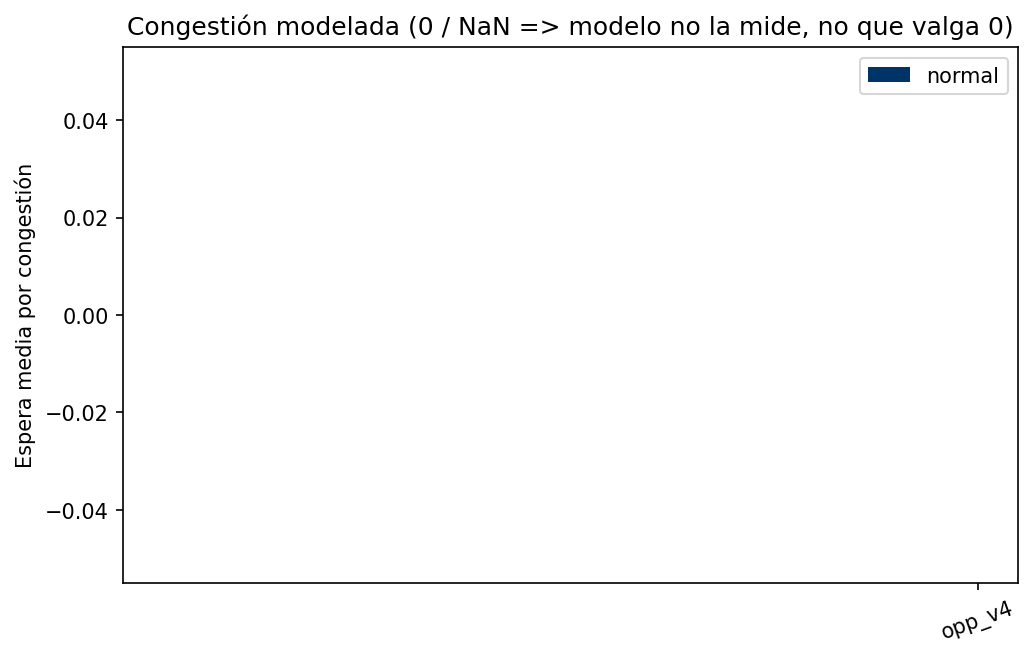
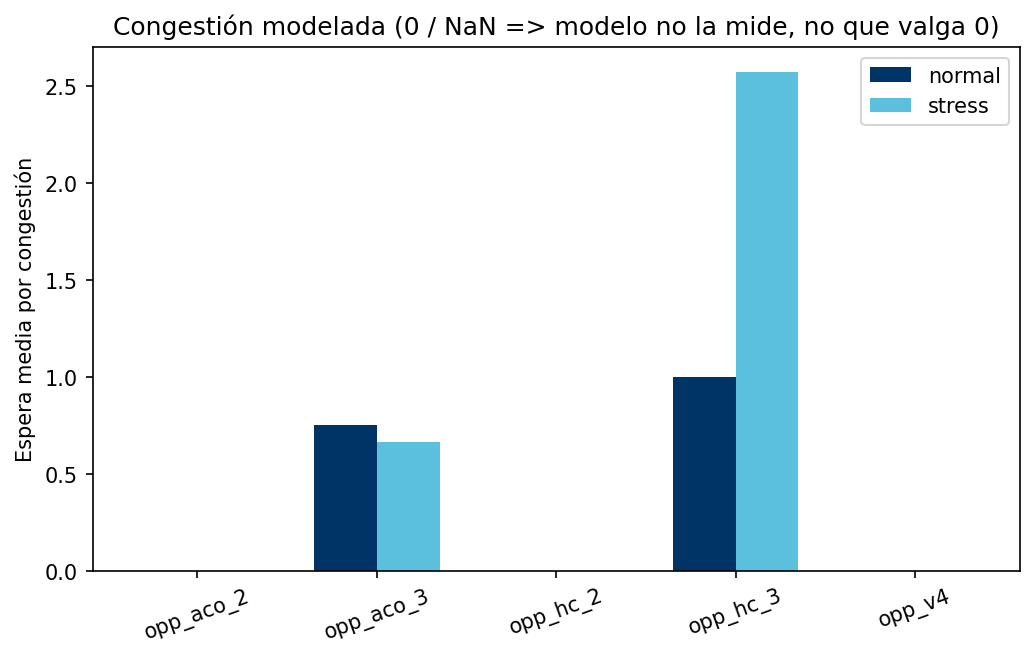
Run analysis

diff --git a/analysis/output/report.md b/analysis/output/report.md
@@ -5,26 +5,37 @@
 | model | scenario | total | ok | timeout | failed | success_rate_pct |
 | --- | --- | --- | --- | --- | --- | --- |
 | opp_aco_2 | normal | 48 | 48 | 0 | 0 | 100.0 |
+| opp_aco_2 | stress | 11 | 8 | 2 | 1 | 72.7 |
 | opp_aco_3 | normal | 12 | 12 | 0 | 0 | 100.0 |
+| opp_aco_3 | stress | 11 | 4 | 5 | 2 | 36.4 |
 | opp_hc_2 | normal | 46 | 46 | 0 | 0 | 100.0 |
+| opp_hc_2 | stress | 34 | 23 | 11 | 0 | 67.6 |
 | opp_hc_3 | normal | 6 | 6 | 0 | 0 | 100.0 |
+| opp_hc_3 | stress | 11 | 8 | 3 | 0 | 72.7 |
 | opp_v4 | normal | 44 | 43 | 1 | 0 | 97.7 |
+| opp_v4 | stress | 8 | 1 | 7 | 0 | 12.5 |
 
 ## 2. Tiempo de ejecución (solo casos OK)
 
 | model | scenario | mean_time | std_time | max_time | n |
 | --- | --- | --- | --- | --- | --- |
 | opp_aco_2 | normal | 0.23610588908195493 | 0.327672399058028 | 1.4354429244995115 | 48 |
+| opp_aco_2 | stress | 508.2595696747303 | 479.06542914003273 | 1444.3947761058807 | 8 |
 | opp_aco_3 | normal | 0.025555570920308385 | 0.04387347950663957 | 0.1223242282867431 | 12 |
+| opp_aco_3 | stress | 669.5413167476654 | 1018.6434971662344 | 2185.4849269390106 | 4 |
 | opp_hc_2 | normal | 0.008851419324460201 | 0.0043273053102638 | 0.0224010944366455 | 46 |
+| opp_hc_2 | stress | 23.28625359742538 | 63.480850213385985 | 296.41067695617676 | 23 |
 | opp_hc_3 | normal | 0.0038505395253499003 | 0.002514931435436244 | 0.0064420700073242 | 6 |
+| opp_hc_3 | stress | 2.6666124165058136 | 3.0417344777546083 | 8.85811710357666 | 8 |
 | opp_v4 | normal | 2.5023141295410865 | 7.092974958272934 | 29.40972781181335 | 43 |
+| opp_v4 | stress | 0.1135659217834472 | nan | 0.1135659217834472 | 1 |
 
 ## 3. Profiling del modelo exacto (opp_v4)
 
 | scenario | mean_total_time | mean_solver_time | n | solver_ratio_pct | overhead_ratio_pct |
 | --- | --- | --- | --- | --- | --- |
 | normal | 2.5023141295410865 | 2.3012240820152816 | 43 | 92.0 | 8.0 |
+| stress | 0.1135659217834472 | 0.0 | 1 | 0.0 | 100.0 |
 
 ## 4. Gap de optimalidad vs. opp_v4
 
@@ -40,17 +51,24 @@
 | model | scenario | mean_congestion_wait | std_congestion_wait | max_congestion_wait | n | congestion_modeled |
 | --- | --- | --- | --- | --- | --- | --- |
 | opp_aco_2 | normal | nan | nan | nan | 0 | False |
+| opp_aco_2 | stress | nan | nan | nan | 0 | False |
 | opp_aco_3 | normal | 0.75 | 1.5 | 3.0 | 4 | True |
+| opp_aco_3 | stress | 0.6666666666666666 | 1.1547005383792517 | 2.0 | 3 | True |
 | opp_hc_2 | normal | nan | nan | nan | 0 | False |
+| opp_hc_2 | stress | nan | nan | nan | 0 | False |
 | opp_hc_3 | normal | 1.0 | 1.7320508075688772 | 3.0 | 3 | True |
+| opp_hc_3 | stress | 2.5714285714285716 | 3.2071349029490928 | 6.0 | 7 | True |
 | opp_v4 | normal | nan | nan | nan | 0 | False |
+| opp_v4 | stress | nan | nan | nan | 0 | False |
 
 ### 5.2 Sobrecosto de tiempo por modelar congestión
 
 | scenario | mean_time_overhead_pct | n_matched | aware_model | baseline_model |
 | --- | --- | --- | --- | --- |
 | normal | -15.574779336779315 | 1 | opp_hc_3 | opp_hc_2 |
+| stress | -26.515760355899374 | 7 | opp_hc_3 | opp_hc_2 |
 | normal | 99.5794968744288 | 1 | opp_aco_3 | opp_aco_2 |
+| stress | 236.52930857530566 | 4 | opp_aco_3 | opp_aco_2 |
 
 ## 6. Sensibilidad paramétrica (correlación de Pearson con total_time)
 
@@ -58,25 +76,33 @@
 
 | model | N | V | B | C_v | W_full | W_ea_ta | n |
 | --- | --- | --- | --- | --- | --- | --- | --- |
-| opp_aco_2 | 0.4544 | 0.4759 | 0.5016 | 0.0808 | -0.015 | -0.496 | 48 |
-| opp_aco_3 | 0.2256 | 0.2256 | 0.9256 | -0.6652 | nan | 0.6652 | 4 |
-| opp_hc_2 | 0.5745 | 0.3289 | 0.2616 | 0.0451 | -0.077 | -0.4117 | 46 |
-| opp_hc_3 | 0.9629 | 0.9629 | nan | 0.9629 | nan | -0.9629 | 3 |
-| opp_v4 | 0.843 | 0.4845 | 0.9182 | -0.0086 | 0.4887 | -0.4204 | 22 |
+| opp_aco_2 | 0.3745 | 0.8742 | 0.3821 | 0.3275 | 0.4978 | -0.318 | 56 |
+| opp_aco_3 | 0.9956 | 0.2727 | 0.6532 | 0.9725 | 0.4728 | -0.1787 | 8 |
+| opp_hc_2 | 0.5506 | 0.7671 | 0.2891 | 0.6387 | 0.2459 | -0.1757 | 69 |
+| opp_hc_3 | 0.3647 | 0.4222 | 0.0525 | 0.769 | 0.4388 | -0.2266 | 11 |
+| opp_v4 | 0.7512 | 0.4409 | 0.9152 | -0.0178 | 0.4444 | -0.387 | 23 |
 
 ### 6.2 Nivel escenario
 
 | model | scenario | N | V | B | C_v | W_full | W_ea_ta | n |
 | --- | --- | --- | --- | --- | --- | --- | --- | --- |
 | opp_aco_2 | normal | 0.4544 | 0.4759 | 0.5016 | 0.0808 | -0.015 | -0.496 | 48 |
+| opp_aco_2 | stress | -0.0209 | 0.7839 | -0.1306 | -0.051 | nan | nan | 8 |
 | opp_aco_3 | normal | 0.2256 | 0.2256 | 0.9256 | -0.6652 | nan | 0.6652 | 4 |
+| opp_aco_3 | stress | 0.996 | -0.1672 | 0.5225 | 0.965 | nan | nan | 4 |
 | opp_hc_2 | normal | 0.5745 | 0.3289 | 0.2616 | 0.0451 | -0.077 | -0.4117 | 46 |
+| opp_hc_2 | stress | 0.4892 | 0.7433 | 0.1437 | 0.6158 | 0.0798 | -0.0798 | 23 |
 | opp_hc_3 | normal | 0.9629 | 0.9629 | nan | 0.9629 | nan | -0.9629 | 3 |
+| opp_hc_3 | stress | 0.2525 | 0.2875 | -0.1769 | 0.7272 | nan | nan | 8 |
 | opp_v4 | normal | 0.843 | 0.4845 | 0.9182 | -0.0086 | 0.4887 | -0.4204 | 22 |
 
 ## Gráficos generados
 
 - `mean_time_normal.png`
+- `mean_time_stress.png`
 - `profiling_exact_model.png`
 - `quality_gap.png`
 - `congestion_wait.png`
+- `scatter_opp_v4_stress_N.png`
+- `scatter_opp_hc_2_stress_N.png`
+- `scatter_opp_aco_2_stress_V.png`
